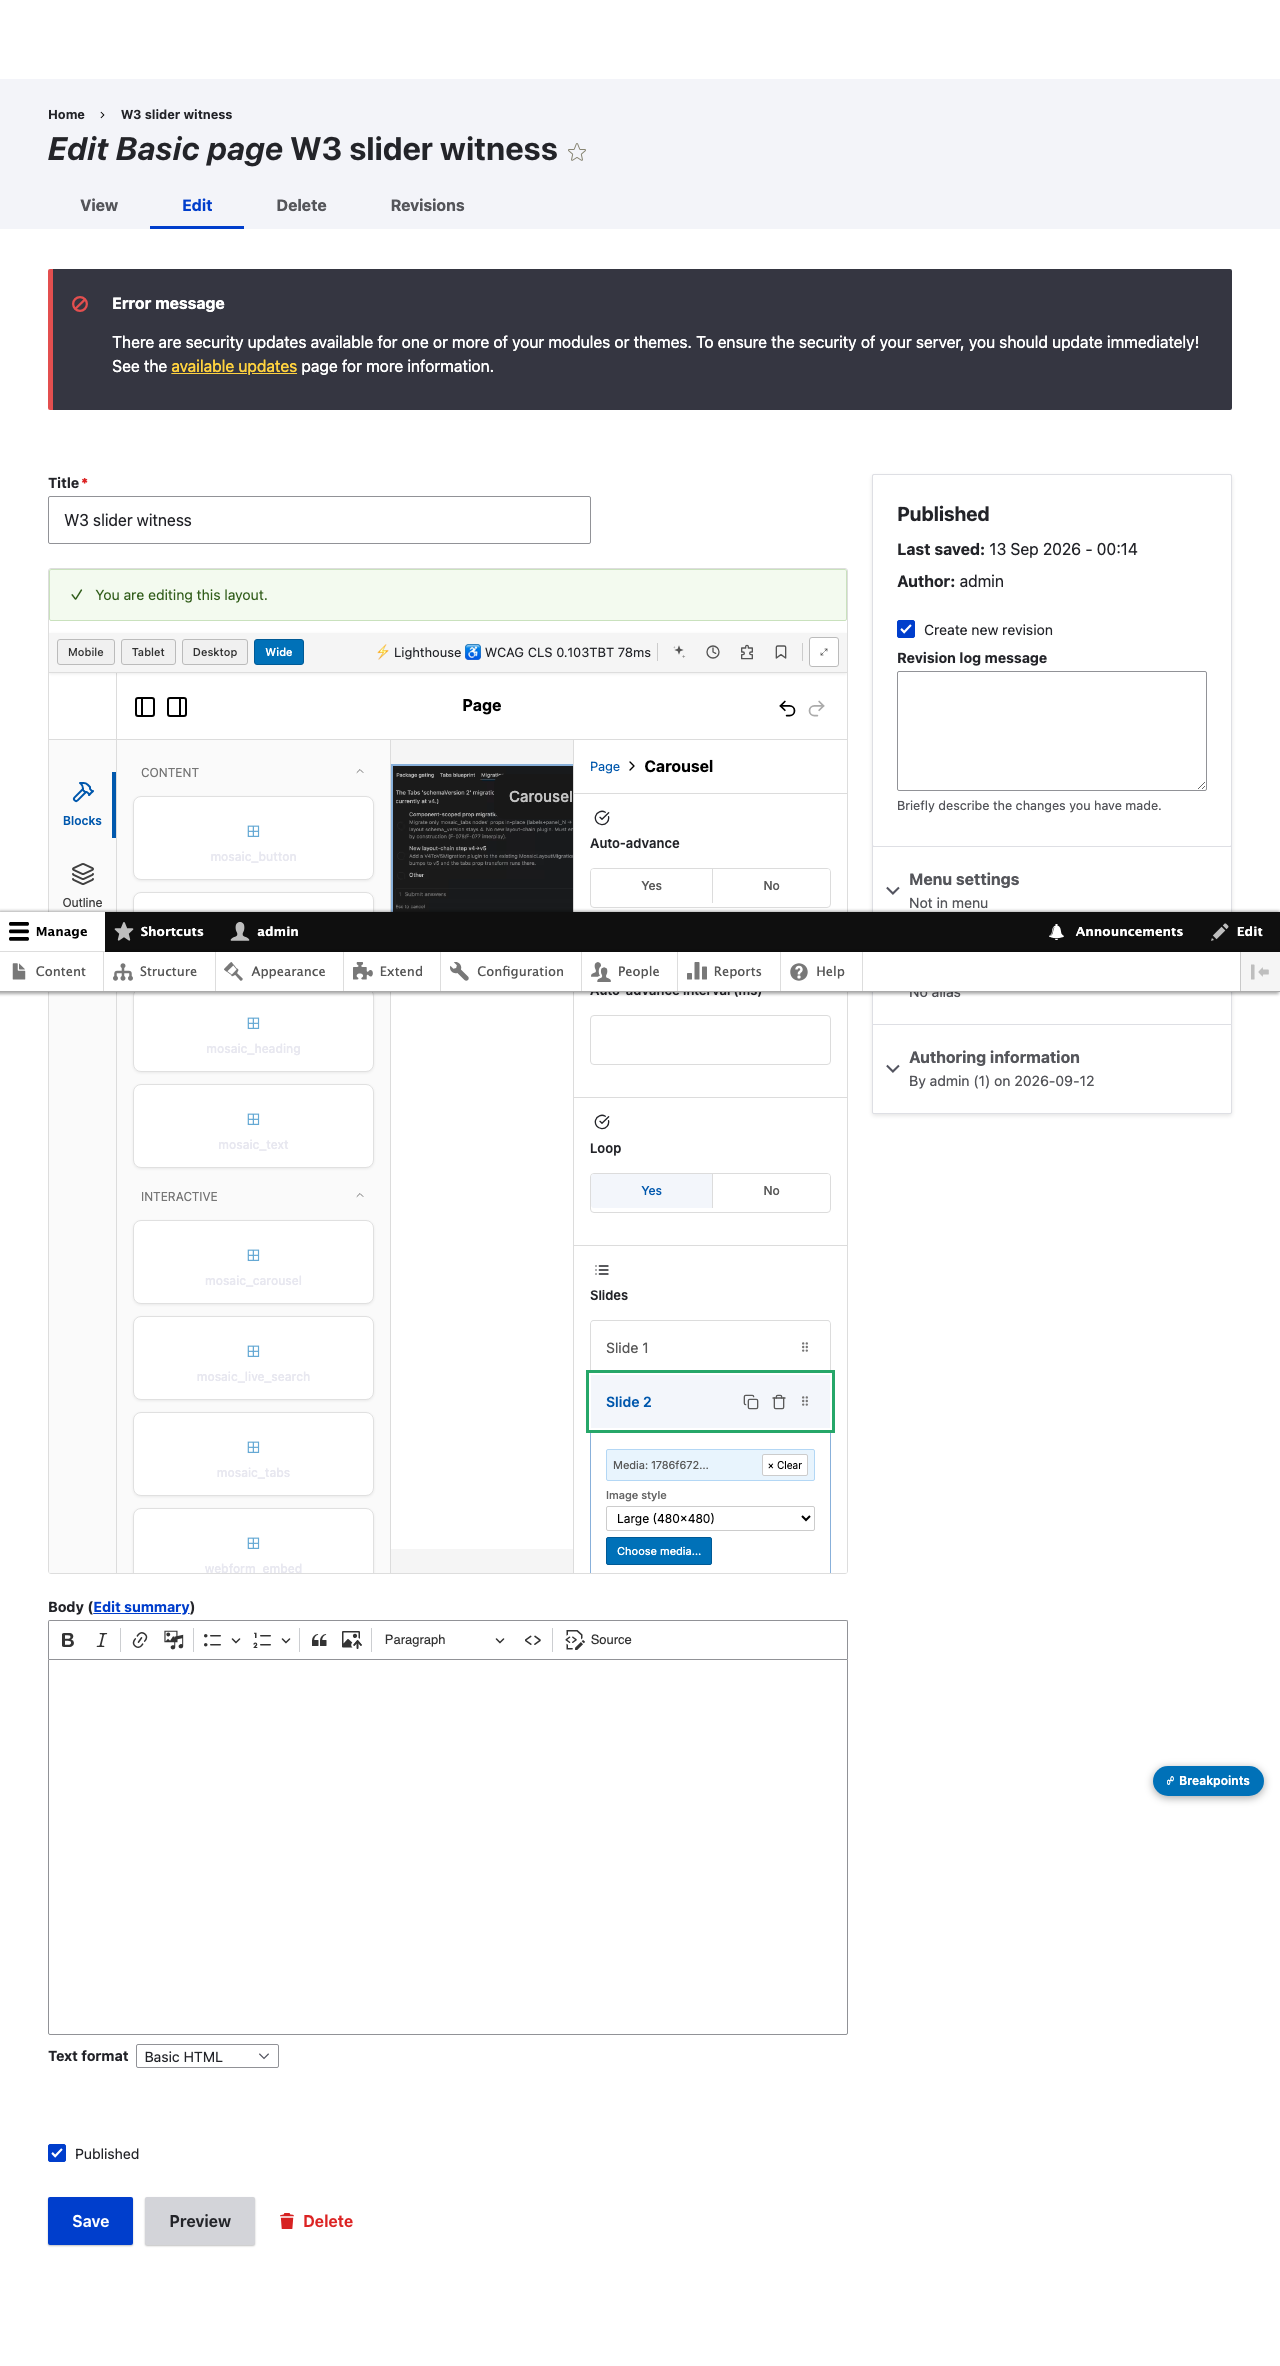
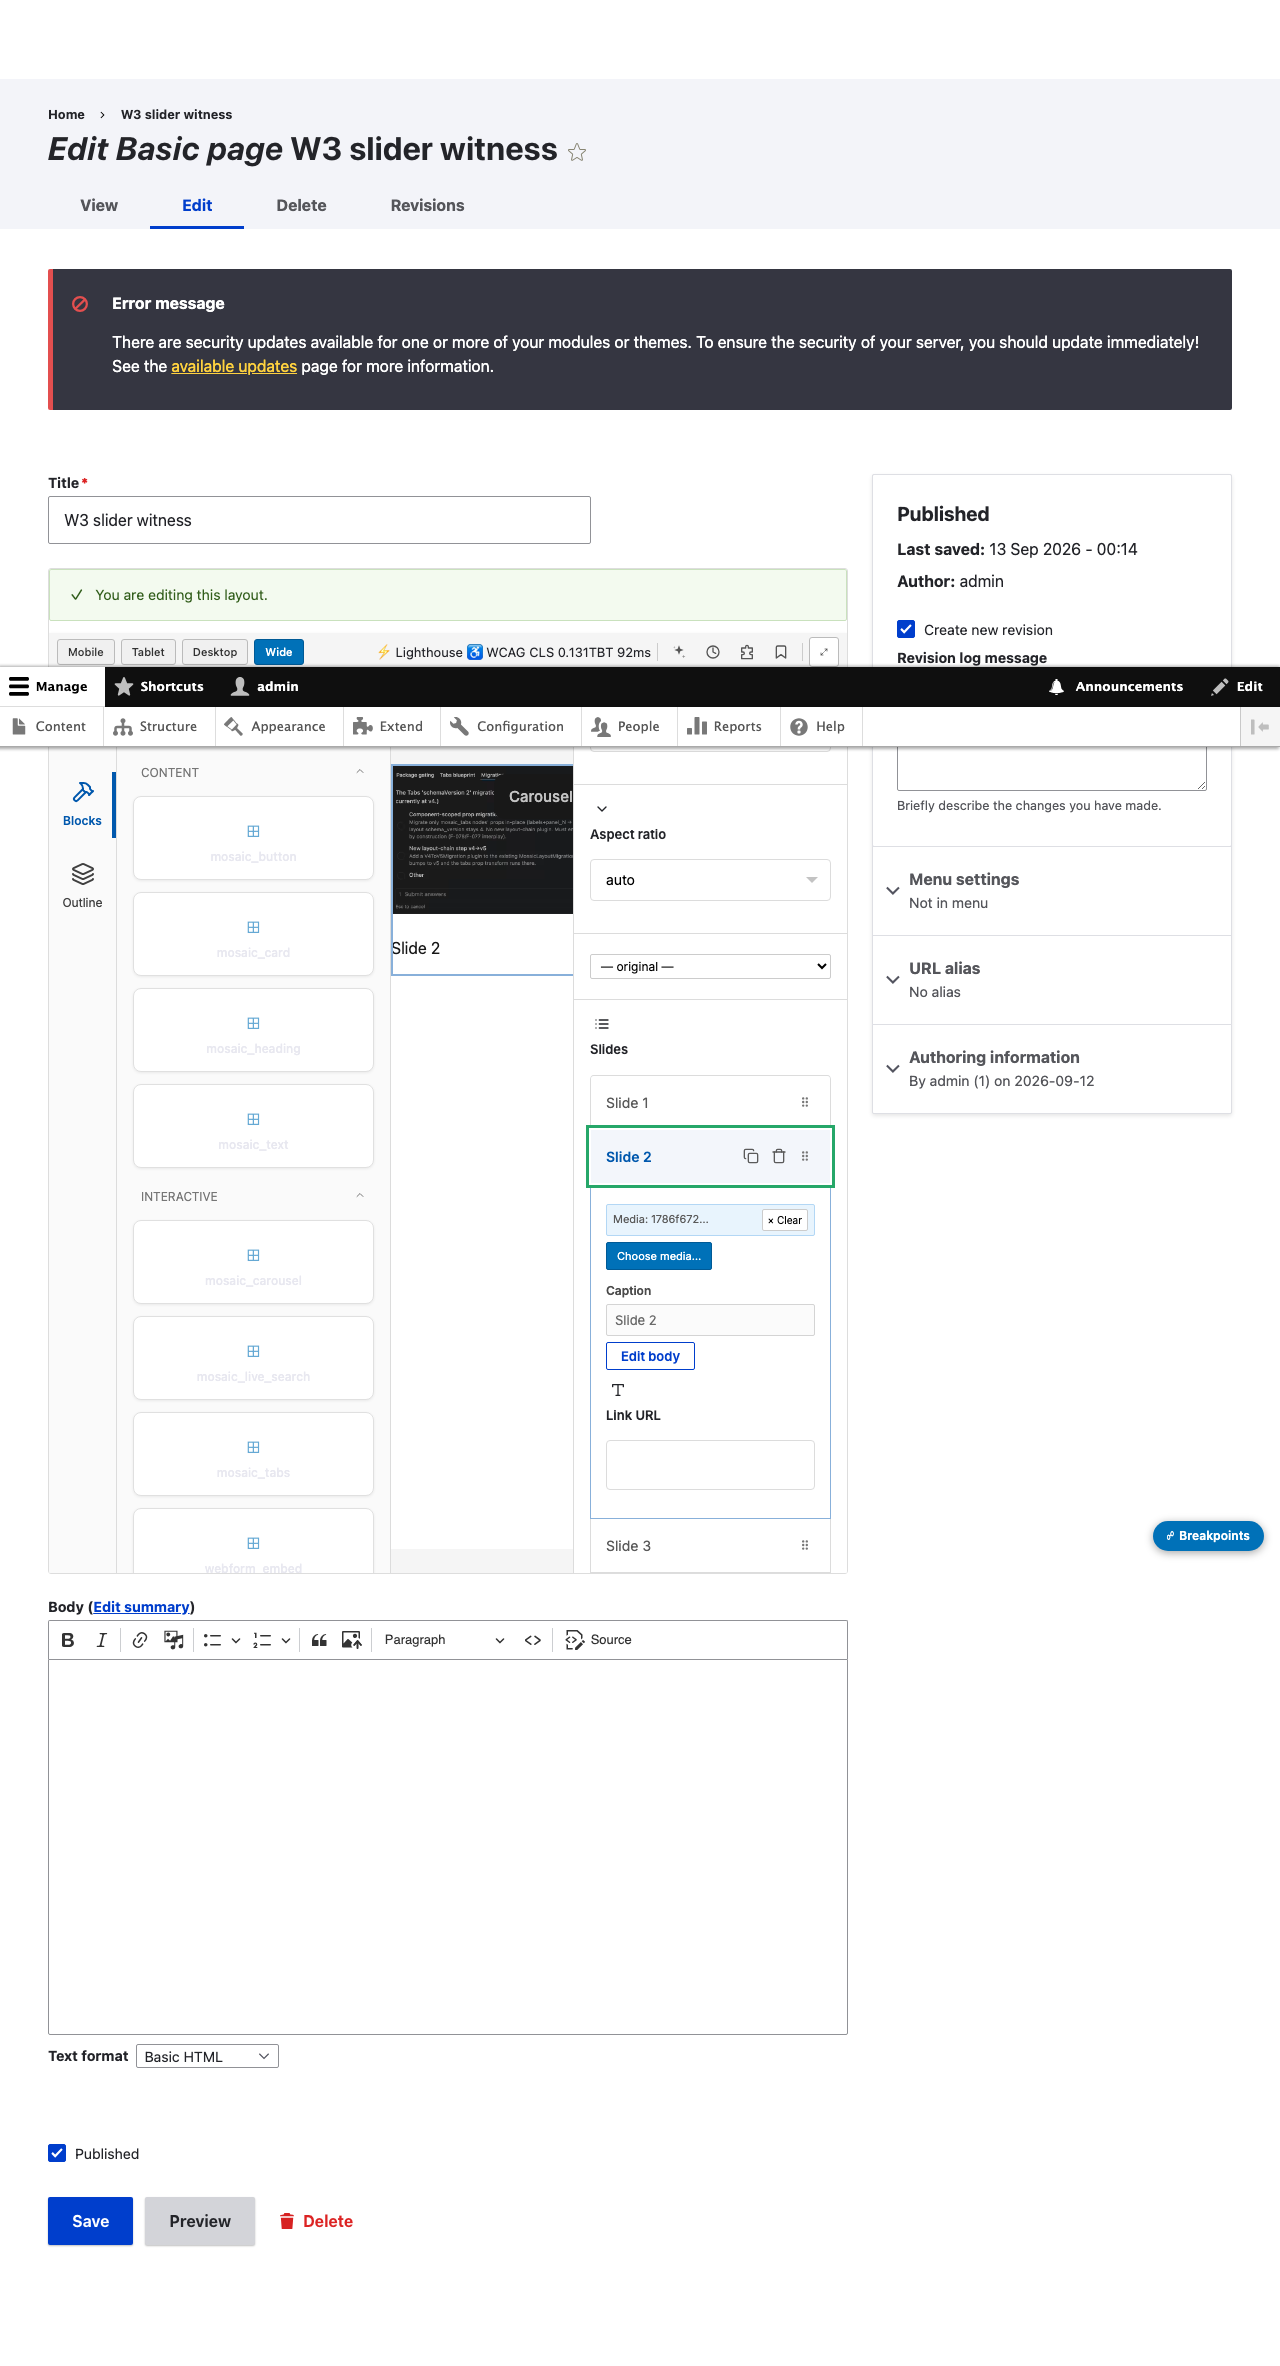
SHIP #35 (CP-CAROUSEL-GEOMETRY, R-56): carousel-level aspect_ratio + image_style; per-slide style removed
aspect_ratio (auto|16:9|4:3|1:1|21:9) → inline aspect-ratio+object-fit:cover on the
light-DOM image (visitor + admin canvas + FE canvas obey; renderer untouched — slotted
content is beyond shadow reach). Carousel-level image_style (new ImageStyleFieldType +
MosaicImageStyleField); resolver precedence legacy per-slide → carousel-level → original.
Per-slide style select removed (mosaic.yml image_style_select:false; no migration).
Gates: PHPCS 0/0, Unit+Kernel 2884/0, Vitest 507/1 (B-101), e2e 10/10. Report: reports/REPORT-CP-GEO.md.

diff --git a/ledger-live/SHIP-35.md b/ledger-live/SHIP-35.md
@@ -1,0 +1,65 @@
+# SHIP #35 — CP-CAROUSEL-GEOMETRY (ruling R-56)
+
+IN PROGRESS — one uncommitted change set on top of ship #34 rider (0c3e5b2). Mosaic git
+read-only here; Arun commits at ceremony. REPORT-TO-REPO: reports/REPORT-CP-GEO.md.
+
+## Scope (R-56)
+Carousel-level frame + style, replacing per-slide image-style granularity.
+- **aspect_ratio** prop (enum: auto|16:9|4:3|1:1|21:9, default auto). Every slide's image
+  gets the SAME frame via CSS aspect-ratio + object-fit:cover; `auto` keeps natural shapes.
+- **image_style** carousel-level select (one style, file weight). Resolver precedence
+  contract: per-slide stored `image_style` (legacy) wins → else carousel-level → else original.
+- **per-slide image-style select REMOVED** from the slides authoring surface (saved sentinels
+  untouched, NO migration; legacy per-slide guard cells stay green).
+
+## Key witness finding (why aspect-ratio is inline, not DSD/Lit)
+The slides are LIGHT-DOM slotted content; shadow styles (DSD `<style>` + Lit static styles)
+cannot reach a slotted slide's `<img>` descendant (::slotted matches only the top element),
+and the admin builder page does not load the renderer CSS. The one mechanism visitor + admin
+canvas + FE canvas ALL obey is INLINE styles on the light-DOM image in the SSR twig. The Lit
+renderer needed NO change — so `dist/renderer.js` is untouched (builder bundle only).
+
+## Files
+**New:**
+- `src/Plugin/MosaicFieldType/ImageStyleFieldType.php` (builder_type 'image_style').
+- `js/src/builder/fields/MosaicImageStyleField.tsx` (carousel-level style select).
+- `js/src/builder/fields/__tests__/carouselGeometry.test.tsx` (Vitest, 4 cells).
+**Modified:**
+- `modules/mosaic_components/components/mosaic_carousel/mosaic_carousel.component.yml` (aspect_ratio + image_style props).
+- `modules/mosaic_components/components/mosaic_carousel/mosaic_carousel.mosaic.yml` (image_style field_type + slides.image image_style_select:false).
+- `modules/mosaic_components/components/mosaic_carousel/mosaic_carousel.twig` (inline aspect-ratio/object-fit on the image).
+- `src/Service/MosaicRenderer.php` (withDefaultImageStyle + carousel-level injection in resolveFieldTypeMedia).
+- `js/src/builder/MosaicPuckAdapter.ts` (image_style case + imageStyleField + showImageStyle threading).
+- `js/src/builder/fields/MosaicMediaField.tsx` (showImageStyle prop; per-slide select gated).
+- `tests/src/Kernel/Component/MosaicCarouselRenderTest.php` (+ slide() helper + 4 CP-GEO cells).
+- `js/dist/builder.js` + chunks + `js/dist/frontend-editor.js` (rebuilt; renderer.js UNTOUCHED).
+
+## Gates
+- PHPCS **0/0** (all changed PHP). Unit+Kernel **2884/0** (7605 assertions, 1 pre-existing warning).
+- Vitest **507/1** (the 1 = pre-existing B-101 bool→radio oracle drift; unrelated).
+- e2e **10/10**: cp-geo (visitor + FE canvas), F-103 (both), carousel slider-geometry + sync + fe,
+  lock, f066, F-094 scroll.
+- PHPStan delta clean (only hit = pre-existing MosaicRenderer.php:214 `$item->value` single-file artifact).
+
+## Proof highlights
+- Geometry e2e node 947 (3 wildly different source shapes, 16:9): VISITOR all 3 imgs = 788×443
+  (=16/9), FE canvas all 3 = 616×347 (=16/9), object-fit:cover, slider clips/advances, FE inert.
+- auto node 948: natural different boxes (788×411, 450×420, 788×924), no inline style.
+- Kernel: aspect_ratio emits CSS; carousel-level styles all slides; legacy per-slide wins;
+  auto emits no constraint. Vitest: panel exposes aspect_ratio(select)+image_style(custom);
+  carousel slide media hides the per-slide select; normal media keeps it.
+
+## Add commands (mosaic repo, Arun runs)
+```
+git add src/Plugin/MosaicFieldType/ImageStyleFieldType.php
+git add src/Service/MosaicRenderer.php
+git add modules/mosaic_components/components/mosaic_carousel/mosaic_carousel.component.yml
+git add modules/mosaic_components/components/mosaic_carousel/mosaic_carousel.mosaic.yml
+git add modules/mosaic_components/components/mosaic_carousel/mosaic_carousel.twig
+git add js/src/builder/MosaicPuckAdapter.ts
+git add js/src/builder/fields/MosaicMediaField.tsx js/src/builder/fields/MosaicImageStyleField.tsx
+git add js/src/builder/fields/__tests__/carouselGeometry.test.tsx
+git add tests/src/Kernel/Component/MosaicCarouselRenderTest.php
+git add js/dist/builder.js js/dist/frontend-editor.js js/dist/chunk-*.js js/dist/assets
+```
+Evidence-only (gitignored): js/e2e/journeys/cp-geo-aspect.spec.ts.

diff --git a/reports/REPORT-CP-GEO.md b/reports/REPORT-CP-GEO.md
@@ -1,0 +1,61 @@
+# REPORT — CP-CAROUSEL-GEOMETRY (ruling R-56, SHIP #35)
+
+**Status:** COMPLETE — carousel-level aspect_ratio + image_style built; per-slide style
+select removed; RED→GREEN Kernel (4) + Vitest (4); geometry e2e both surfaces; gates green.
+One uncommitted change set on top of ship #34 rider (0c3e5b2). Read-only mosaic git.
+
+## Pre-flight
+Rider verified: HEAD 0c3e5b2 "ship #34 rider: manifest guard cell for #50", parent 3873685,
+== origin; ManifestFieldTypesTest.php +25 in HEAD; only noise unstaged.
+
+## G1 WITNESS (quoted before building)
+- `mosaic_carousel.component.yml`: props auto_advance/interval/loop/slides (no aspect_ratio/style).
+- `mosaic_carousel.mosaic.yml`: field_types.slides (repeatable) → image sub-field type `media`.
+- Image-style list source: `ImageStylesController::list()` → `[{id,label}]` from
+  `image_style` storage, GET /mosaic/config/image-styles. `MosaicMediaField.tsx:59-64` fetches it;
+  `default_image_style` (MediaFieldType.toBuilderField) only seeds the picker.
+- Resolver precedence (`MosaicPropResolver.php:168-190`): responsive_image_style → image_style
+  (`$style->buildUrl($uri)`) → original (`$file->createFileUrl()`).
+- Slide markup: light-DOM slotted `.mosaic-carousel-slide` > (a?) > img; the shadow `<style>`
+  `.mosaic-carousel-slide img{}` rule is INERT (shadow can't style slotted descendants). No
+  light-DOM carousel CSS file exists.
+
+## G2 BUILD (RED→GREEN)
+- **a. aspect_ratio** — component.yml enum prop (auto default). The adapter's enum→select path
+  (MosaicPuckAdapter:1694) renders it as a select. Twig emits INLINE `aspect-ratio:16/9;
+  object-fit:cover` on the light-DOM image (a-wrapper when linked). **Design note:** the charter
+  said "DSD AND Lit styles", but the target is light-DOM slotted content beyond shadow reach and
+  the admin canvas doesn't load renderer CSS — inline SSR styles are the ONE mechanism all three
+  surfaces obey, so the Lit renderer needed no change (dist/renderer.js untouched).
+- **b. image_style** — new `ImageStyleFieldType` plugin (builder_type 'image_style'); mosaic.yml
+  top-level `image_style` field_type → adapter `imageStyleField` → `MosaicImageStyleField.tsx`
+  (fetches the same style list). Resolver: `MosaicRenderer::resolveFieldTypeMedia` reads the
+  component-level `image_style` and injects it via `withDefaultImageStyle()` into any slide
+  sentinel lacking its own — **precedence: legacy per-slide wins → carousel-level → original**.
+- **c. per-slide select removed** — mosaic.yml slides.image `image_style_select: false` threaded
+  through the adapter (`resolveSubFields`/`mediaField`) → `MosaicMediaField showImageStyle=false`
+  hides the select. Saved sentinels untouched; no migration; legacy per-slide guards stay green.
+- **RED→GREEN Kernel (MosaicCarouselRenderTest, 14/14):** aspect_ratio emits `aspect-ratio:16/9`
+  + `object-fit:cover` on both slides; `auto` emits neither; carousel-level style → both slides
+  `/styles/thumbnail/`; legacy per-slide `large` wins while the other inherits `thumbnail`.
+- **RED→GREEN Vitest (carouselGeometry.test.tsx, 4/4):** manifest → aspect_ratio(select) +
+  image_style(custom); carousel slide media hides the per-slide select; normal media keeps it;
+  MosaicImageStyleField renders a style select with "— original —".
+
+## G3 GEOMETRY e2e (cp-geo-aspect.spec.ts)
+- Node 947 (3 source shapes: 1639×855, 450×420, 1070×1254), ratio 16:9:
+  - VISITOR: all three `<img>` boxes = **788×443** (=16/9); object-fit computed `cover`; slider
+    clips to one slide + arrow advances 0→1. Frame `cp-geo-01-visitor-16x9.png`.
+  - FE dialog canvas: all three = **616×347** (=16/9); `data-mosaic-preview="canvas"` (F-103
+    inert regression holds). Frame `cp-geo-02-fe-canvas-16x9.png`.
+- Node 948 (same 3 shapes), ratio auto: natural different boxes **788×411 / 450×420 / 788×924**,
+  img has no inline style → prior behavior intact.
+
+## G4 dist + gates
+- dist: builder + frontend-editor rebuilt (builder-first, FE-last, via the direct vite configs —
+  `npm run build` is broken, missing vite.bundles.config.ts). **renderer.js untouched** (no Lit
+  change — witness above).
+- PHPCS 0/0; Unit+Kernel 2884/0; Vitest 507/1 (B-101 pre-existing); e2e 10/10; PHPStan delta clean.
+
+## Files
+See SHIP-35.md for the complete new/modified list + Arun's add commands.

diff --git a/ledger-live/TODO.md b/ledger-live/TODO.md
@@ -12266,3 +12266,29 @@ mosaic git — AI did not stage it.)
 one carousel-level image style + remove per-slide style from authoring, sentinel image_style
 still honored, no migration) → CP-VIEWS-EMBED-1..3 (witnessed #attached blocker FIRST) →
 ACT 2 → Wave D-0 (F-102 tabs/live_search DSD style-adoption) → Wave D/F → Wave G → Arun soak → tag 1.0.x.
+
+---
+
+## SHIP #34 RIDER LANDED = commit 0c3e5b2 (parent 3873685, == origin)
+The held #50 manifest guard cell is now committed: "ship #34 rider: manifest guard cell for #50
+(carousel manifest exposes no legacy slide props)" — ManifestFieldTypesTest.php +25/-0 in HEAD.
+The ship #34 gap is closed; only noise (js/*.log, tests/*.log, assets/) remains unstaged.
+
+## CP-CAROUSEL-GEOMETRY — OPEN (SHIP #35 candidate; ruling R-56, first after ceremony)
+Carousel-level frame + style. Scope: (a) carousel-level `aspect_ratio` prop
+(16:9|4:3|1:1|21:9|auto=default → CSS aspect-ratio + object-fit:cover on visitor, admin canvas,
+FE canvas); (b) carousel-level `image_style` select (file weight); RESOLVER PRECEDENCE CONTRACT =
+per-slide sentinel image_style (legacy) wins → else carousel-level style → else original; new
+authoring never writes per-slide; (c) REMOVE per-slide image style select from the slides
+authoring surface (saved sentinels untouched, NO migration; per-slide guard cells stay GREEN).
+
+### CP-CAROUSEL-GEOMETRY BUILT 2026-09-13 (SHIP #35, uncommitted) — report: reports/REPORT-CP-GEO.md
+R-56 delivered: (a) carousel-level aspect_ratio (auto|16:9|4:3|1:1|21:9) → inline
+aspect-ratio+object-fit:cover on the light-DOM image (visitor+admin canvas+FE canvas all obey;
+Lit/renderer untouched — slotted content is beyond shadow reach); (b) carousel-level image_style
+(new ImageStyleFieldType plugin + MosaicImageStyleField); resolver precedence legacy per-slide →
+carousel-level → original (MosaicRenderer::withDefaultImageStyle); (c) per-slide style select
+removed via mosaic.yml image_style_select:false → MosaicMediaField showImageStyle=false (sentinels
+untouched, no migration). Gates: PHPCS 0/0, Unit+Kernel 2884/0, Vitest 507/1 (B-101), e2e 10/10
+(cp-geo 16:9 uniform frames both surfaces 788×443/616×347 + auto natural shapes; F-103 inert holds).
+Ship #34 rider 0c3e5b2 verified pre-flight. NEXT in queue: CP-VIEWS-EMBED-1..3 (witnessed #attached blocker first).
